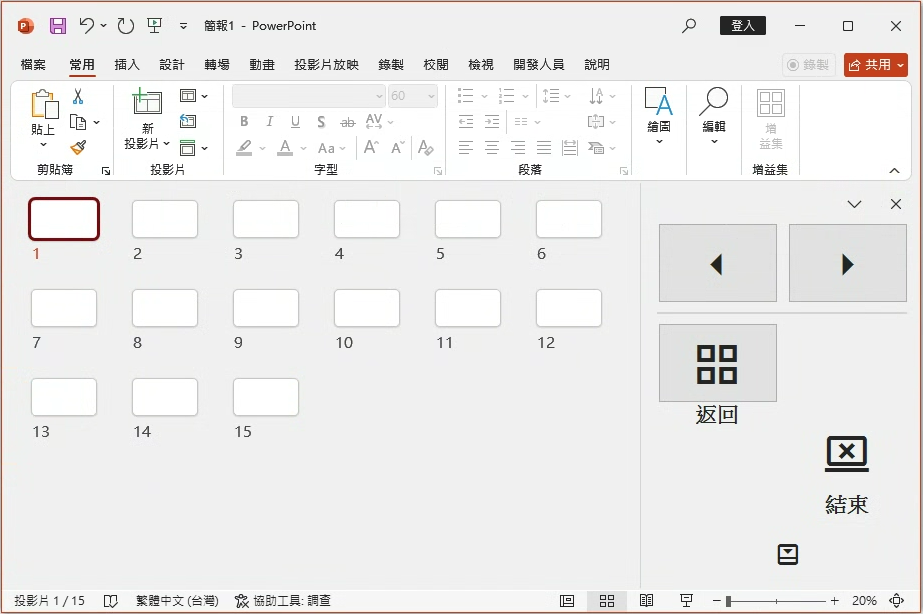
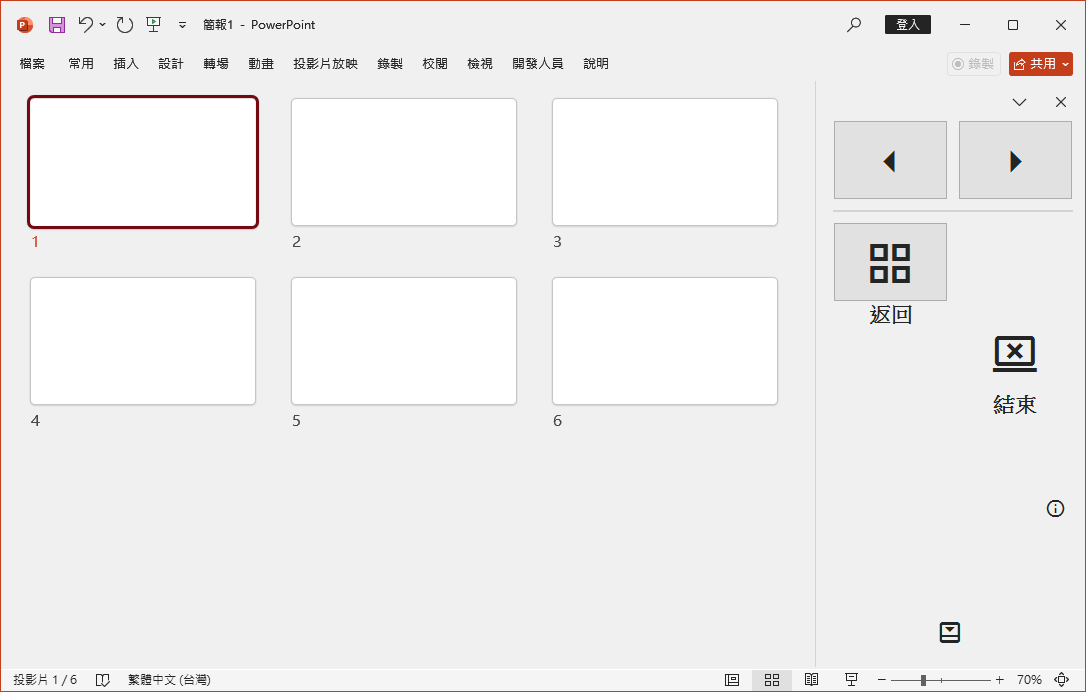
v1.2.0

diff --git a/src/Properties/AssemblyInfo.cs b/src/Properties/AssemblyInfo.cs
@@ -32,6 +32,6 @@ using System.Security;
 // You can specify all the values or you can default the Build and Revision Numbers 
 // by using the '*' as shown below:
 // [assembly: AssemblyVersion("1.0.*")]
-[assembly: AssemblyVersion("1.1.0.0")]
-[assembly: AssemblyFileVersion("1.1.0.0")]
+[assembly: AssemblyVersion("1.2.0.0")]
+[assembly: AssemblyFileVersion("1.2.0.0")]
 

diff --git a/readme.md b/readme.md
@@ -25,7 +25,7 @@ Code Signing Certificate
 
 PowerPoint 投影片縮圖插件
 -----------------------
-**版本：** 1.1.0  
+**版本：** 1.2.0  
 **GitHub：** https://github.com/m00291/PowerPointSlideThumbnailsAddIn
 
 簡介
@@ -48,7 +48,7 @@ PowerPoint 投影片縮圖插件
 
 PowerPoint Slide Thumbnails Add-in
 ----------------------------------
-**Version:** 1.1.0  
+**Version:** 1.2.0  
 **GitHub:** https://github.com/m00291/PowerPointSlideThumbnailsAddIn
 
 Overview

diff --git a/changelog.md b/changelog.md
@@ -2,6 +2,12 @@
 
 All notable changes to this project will be documented in this file.
 
+## [1.2.0] - 2025-08-16
+### Added
+- Resize the task pane
+- Reopen task pane if it was closed
+- Collapse Ribbon
+
 ## [1.1.0] - 2025-08-08
 ### Added
 - English and Chinese localization
